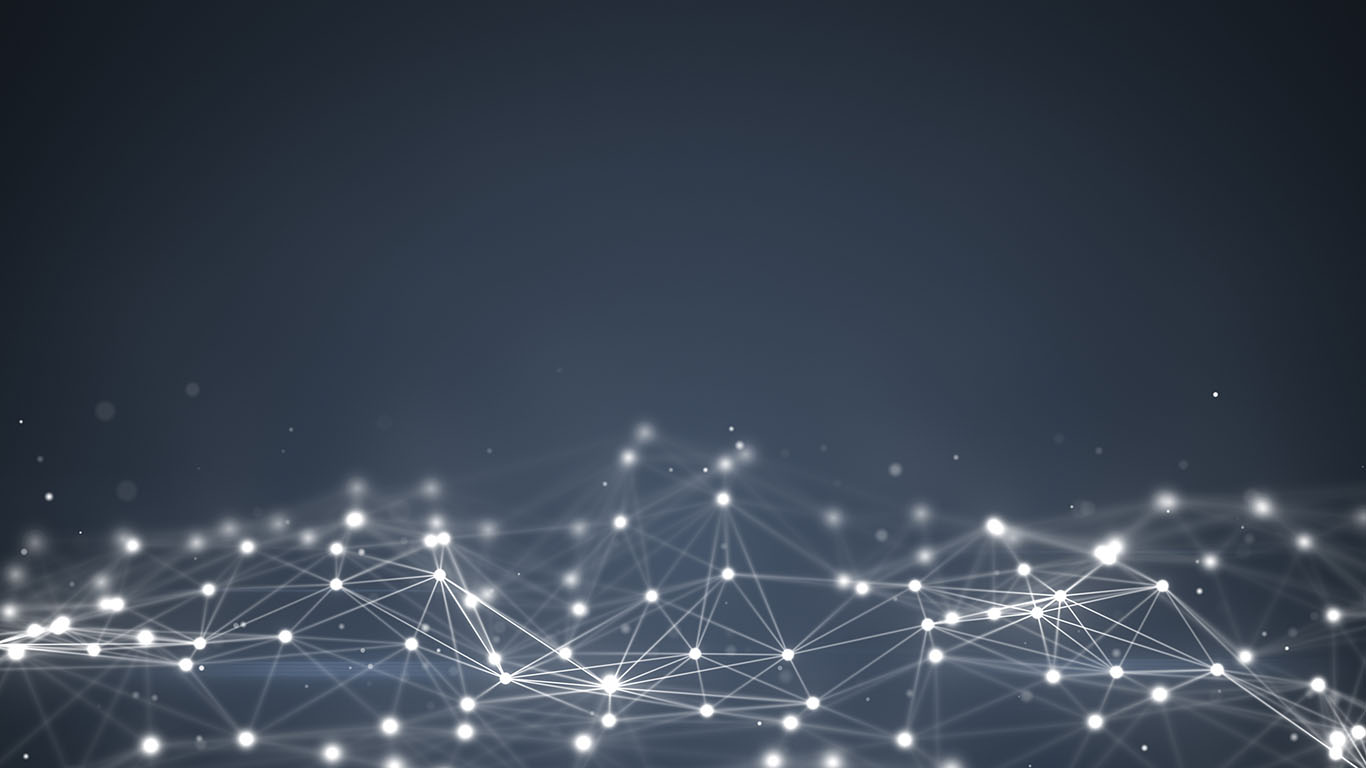
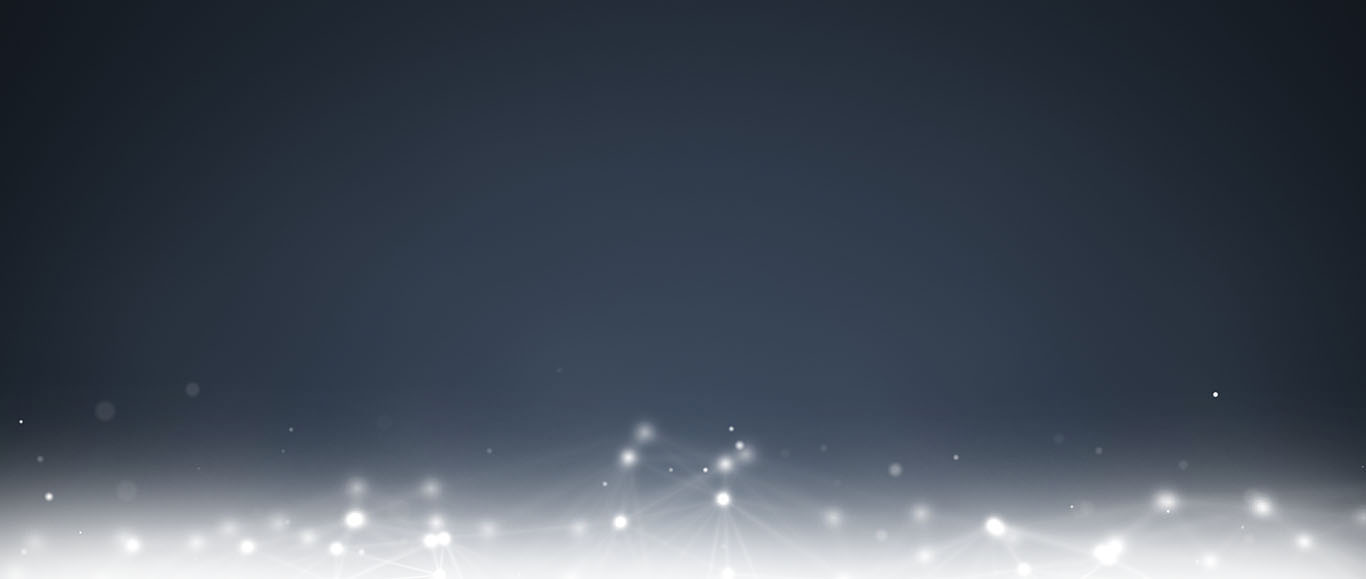
Made header bg less heigh.

Changed region(s): [[0.0, 0.5285, 1.0, 1.0], [0.6457, 0.5907, 0.6764, 0.6218], [0.5842, 0.6528, 0.6149, 0.6839]]

diff --git a/index.html b/index.html
@@ -34,7 +34,7 @@
       <div class="container">
         <img class="navbar-brand js-scroll-trigger"	href="#page-top" src="img/logo.png"/>
 
-      <!--  <a class="navbar-brand js-scroll-trigger" href="#page-top">Random Potential</a>-->
+        <a class="navbar-brand js-scroll-trigger" href="#page-top">Random Potential</a>
         <button class="navbar-toggler navbar-toggler-right" type="button" data-toggle="collapse" data-target="#navbarResponsive" aria-controls="navbarResponsive" aria-expanded="false" aria-label="Toggle navigation">
           Menu
           <i class="fa fa-bars"></i>
